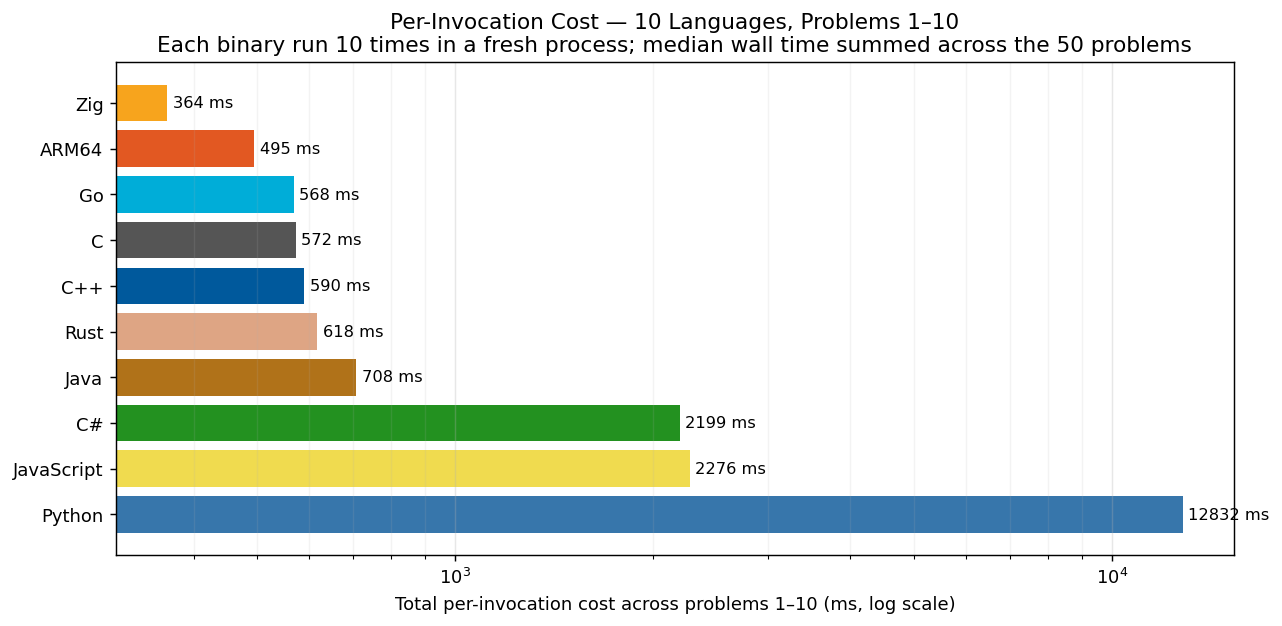
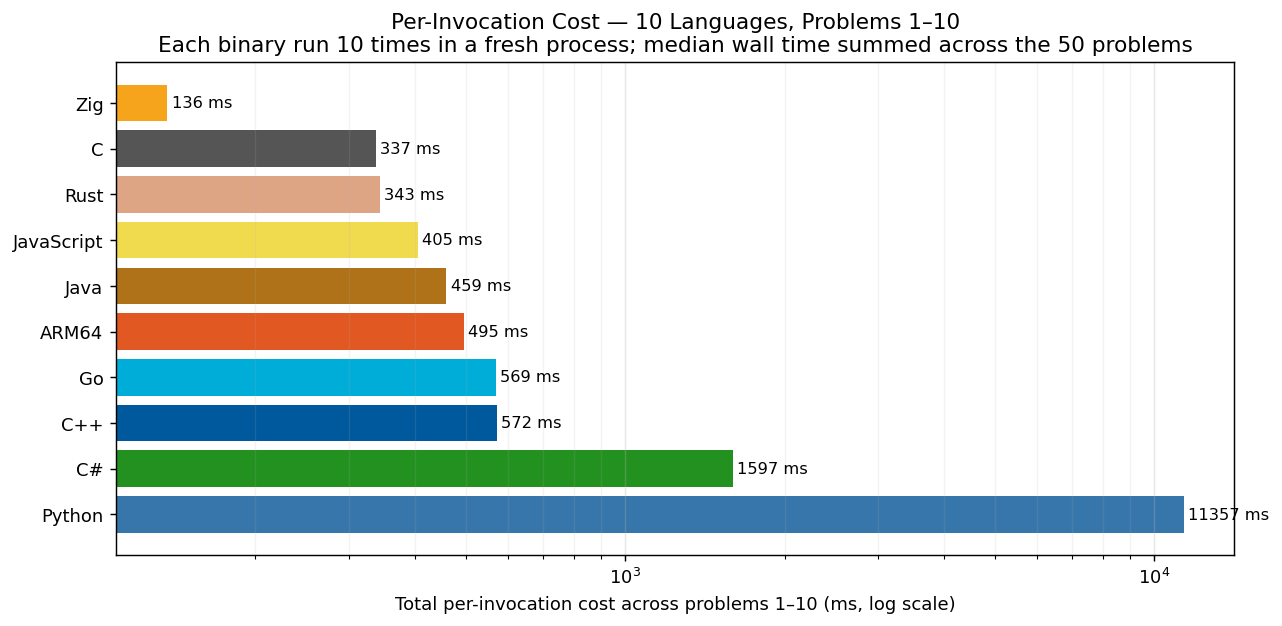
bench refresh post Big-4 cross-lang refactors: p012/p014/p029/p039 across 9 langs (PE 14 Collatz memo, PE 12 τ-via-coprime, PE 29 better data structure / factor-reduction, PE 39 Euclid parametric)

diff --git a/RESULTS.md b/RESULTS.md
@@ -17,16 +17,16 @@ the headline per-problem number, and we sum across the 50 problems for the total
 
 | Rank | Language | Total (50 problems) | Lines of code | vs Fastest |
 |------|----------|--------------------:|--------------:|-----------:|
-| 1 | **Zig** | 364.31 ms | 2,573 | 1.00× |
-| 2 | **ARM64** | 494.99 ms | 6,592 | 1.36× |
-| 3 | **Go** | 568.36 ms | 2,300 | 1.56× |
-| 4 | **C** | 572.02 ms | 2,510 | 1.57× |
-| 5 | **C++** | 589.86 ms | 2,034 | 1.62× |
-| 6 | **Rust** | 617.53 ms | 2,132 | 1.70× |
-| 7 | **Java** | 707.78 ms | 2,084 | 1.94× |
-| 8 | **C#** | 2.20 s | 2,251 | 6.04× |
-| 9 | **JavaScript** | 2.28 s | 1,629 | 6.25× |
-| 10 | **Python** | 12.83 s | 1,444 | 35.22× |
+| 1 | **Zig** | 136.13 ms | 2,580 | 1.00× |
+| 2 | **C** | 337.49 ms | 2,525 | 2.48× |
+| 3 | **Rust** | 343.40 ms | 2,159 | 2.52× |
+| 4 | **JavaScript** | 404.99 ms | 1,684 | 2.97× |
+| 5 | **Java** | 458.83 ms | 2,119 | 3.37× |
+| 6 | **ARM64** | 494.75 ms | 6,592 | 3.63× |
+| 7 | **Go** | 568.92 ms | 2,328 | 4.18× |
+| 8 | **C++** | 571.51 ms | 2,014 | 4.20× |
+| 9 | **C#** | 1.60 s | 2,295 | 11.73× |
+| 10 | **Python** | 11.36 s | 1,467 | 83.43× |
 
 ## Speed vs Code Size
 
@@ -60,16 +60,16 @@ are sorted by total (fastest language at top).
 
 | Language | p001 | p002 | p003 | p004 | p005 | p006 | p007 | p008 | p009 | p010 | p011 | p012 | p013 | p014 | p015 | p016 | p017 | p018 | p019 | p020 | p021 | p022 | p023 | p024 | p025 | p026 | p027 | p028 | p029 | p030 | p031 | p032 | p033 | p034 | p035 | p036 | p037 | p038 | p039 | p040 | p041 | p042 | p043 | p044 | p045 | p046 | p047 | p048 | p049 | p050 |
 |----------|----:|----:|----:|----:|----:|----:|----:|----:|----:|----:|----:|----:|----:|----:|----:|----:|----:|----:|----:|----:|----:|----:|----:|----:|----:|----:|----:|----:|----:|----:|----:|----:|----:|----:|----:|----:|----:|----:|----:|----:|----:|----:|----:|----:|----:|----:|----:|----:|----:|----:|
-| **Zig** | 42 ns | 42 ns | 708 ns | 3.8 µs | 417 ns | 42 ns | 219.1 µs | 1.6 µs | 250 ns | 2.77 ms | 2.4 µs | 36.96 ms | 42 ns | 133.78 ms | 42 ns | 477.2 µs | 2.2 µs | 42 ns | 4.7 µs | 31.9 µs | 1.52 ms | 1.03 ms | 8.56 ms | 292 ns | 6.85 ms | 652.8 µs | 6.08 ms | 41 ns | 68.32 ms | 1.50 ms | 1.0 µs | 1.16 ms | 2.0 µs | 9.92 ms | 2.32 ms | 4.94 ms | 1.95 ms | 215.1 µs | 104.6 µs | 291 ns | 8.55 ms | 227.1 µs | 11.18 ms | 36.45 ms | 44.6 µs | 3.98 ms | 8.36 ms | 104.0 µs | 2.58 ms | 3.45 ms |
-| **ARM64** | 0 ns | 0 ns | 1.0 µs | 3.0 µs | 1.0 µs | 0 ns | 306.0 µs | 4.0 µs | 1.0 µs | 5.45 ms | 3.0 µs | 63.87 ms | 2.0 µs | 179.55 ms | 0 ns | 476.0 µs | 3.0 µs | 1.0 µs | 7.0 µs | 16.0 µs | 2.39 ms | 1.33 ms | 11.22 ms | 0 ns | 7.45 ms | 1.04 ms | 8.46 ms | 1.0 µs | 55.46 ms | 1.81 ms | 2.0 µs | 1.48 ms | 15.0 µs | 11.43 ms | 3.64 ms | 5.66 ms | 3.27 ms | 207.0 µs | 2.36 ms | 1.33 ms | 8.49 ms | 27.0 µs | 15.84 ms | 84.68 ms | 77.0 µs | 4.84 ms | 7.82 ms | 132.0 µs | 1.22 ms | 3.61 ms |
-| **Go** | 1.5 µs | 1.4 µs | 2.1 µs | 4.8 µs | 1.8 µs | 1.8 µs | 477.5 µs | 5.7 µs | 1.8 µs | 4.72 ms | 3.1 µs | 38.66 ms | 68.1 µs | 165.81 ms | 1.5 µs | 585.0 µs | 5.5 µs | 2.2 µs | 6.7 µs | 20.0 µs | 1.58 ms | 728.2 µs | 10.14 ms | 1.9 µs | 122.9 µs | 1.57 ms | 6.02 ms | 1.9 µs | 7.71 ms | 2.15 ms | 6.0 µs | 17.42 ms | 11.1 µs | 13.63 ms | 4.20 ms | 42.22 ms | 2.64 ms | 1.04 ms | 118.7 µs | 4.29 ms | 11.13 ms | 291.2 µs | 20.58 ms | 166.18 ms | 52.3 µs | 4.08 ms | 5.98 ms | 416.7 µs | 28.41 ms | 5.28 ms |
-| **C** | 41 ns | 41 ns | 583 ns | 3.2 µs | 416 ns | 42 ns | 29.9 µs | 2.7 µs | 250 ns | 355.6 µs | 1.5 µs | 37.21 ms | 42 ns | 134.92 ms | 42 ns | 491.2 µs | 2.2 µs | 250 ns | 5.0 µs | 26.2 µs | 1.52 ms | 1.58 ms | 8.58 ms | 167 ns | 6.46 ms | 612.9 µs | 7.44 ms | 42 ns | 74.48 ms | 1.41 ms | 708 ns | 12.59 ms | 8.2 µs | 9.68 ms | 3.10 ms | 54.81 ms | 2.57 ms | 1.94 ms | 106.7 µs | 9.34 ms | 7.78 ms | 308.6 µs | 10.36 ms | 50.25 ms | 48.7 µs | 3.97 ms | 6.95 ms | 146.5 µs | 119.30 ms | 3.63 ms |
-| **C++** | 166 ns | 167 ns | 34.7 µs | 32.0 µs | 542 ns | 42 ns | 24.4 µs | 3.0 µs | 334 ns | 375.9 µs | 500 ns | 36.75 ms | 19.7 µs | 161.03 ms | 167 ns | 626.8 µs | 2.5 µs | 292 ns | 4.3 µs | 27.6 µs | 1.51 ms | 1.28 ms | 29.33 ms | 625 ns | 5.88 ms | 733.4 µs | 9.73 ms | 83 ns | 76.41 ms | 1.41 ms | 708 ns | 7.46 ms | 8.2 µs | 9.62 ms | 5.55 ms | 63.08 ms | 3.69 ms | 559.8 µs | 104.5 µs | 3.78 ms | 17.54 ms | 315.7 µs | 9.92 ms | 40.85 ms | 49.2 µs | 3.76 ms | 93.61 ms | 125.4 µs | 213.0 µs | 4.41 ms |
-| **Rust** | 42 ns | 83 ns | 94.8 µs | 17.8 µs | 583 ns | 42 ns | 245.7 µs | 10.6 µs | 291 ns | 1.08 ms | 42 ns | 38.03 ms | 39.4 µs | 185.77 ms | 42 ns | 57.9 µs | 2.0 µs | 250 ns | 4.8 µs | 23.4 µs | 1.82 ms | 711.1 µs | 92.96 ms | 708 ns | 7.09 ms | 5.66 ms | 7.85 ms | 875 ns | 63.20 ms | 2.37 ms | 2.2 µs | 13.35 ms | 7.7 µs | 9.10 ms | 28.86 ms | 79.01 ms | 2.73 ms | 1.70 ms | 88.4 µs | 7.56 ms | 7.61 ms | 119.6 µs | 10.76 ms | 15.65 ms | 48.2 µs | 5.56 ms | 7.00 ms | 169.5 µs | 18.53 ms | 2.66 ms |
-| **Java** | 2.5 µs | 2.8 µs | 8.0 µs | 307.3 µs | 5.5 µs | 1.9 µs | 1.62 ms | 55.0 µs | 6.0 µs | 8.17 ms | 65.7 µs | 45.18 ms | 1.99 ms | 214.97 ms | 2.1 µs | 962.7 µs | 76.8 µs | 21.2 µs | 181.6 µs | 879.7 µs | 2.15 ms | 14.19 ms | 14.66 ms | 4.7 µs | 84.61 ms | 1.91 ms | 14.54 ms | 14.1 µs | 6.64 ms | 4.19 ms | 18.6 µs | 26.50 ms | 116.0 µs | 25.63 ms | 11.10 ms | 38.47 ms | 9.93 ms | 3.82 ms | 2.68 ms | 5.75 ms | 18.79 ms | 8.88 ms | 27.42 ms | 40.33 ms | 1.30 ms | 6.82 ms | 12.43 ms | 15.88 ms | 21.23 ms | 13.25 ms |
-| **C#** | 54.8 µs | 64.0 µs | 80.6 µs | 136.5 µs | 1.70 ms | 27.1 µs | 696.7 µs | 179.2 µs | 521.2 µs | 9.73 ms | 662.8 µs | 110.22 ms | 466.1 µs | 552.02 ms | 58.2 µs | 2.48 ms | 12.38 ms | 3.84 ms | 299.4 µs | 2.76 ms | 168.50 ms | 23.76 ms | 8.49 ms | 416.85 ms | 4.58 ms | 1.91 ms | 118.17 ms | 3.29 ms | 23.68 ms | 3.19 ms | 223.2 µs | 9.54 ms | 248.2 µs | 19.98 ms | 176.76 ms | 13.36 ms | 7.29 ms | 21.05 ms | 708.8 µs | 6.24 ms | 24.75 ms | 16.80 ms | 255.46 ms | 129.27 ms | 407.0 µs | 7.93 ms | 10.89 ms | 671.1 µs | 18.55 ms | 7.94 ms |
-| **JavaScript** | 19.0 µs | 12.1 µs | 49.2 µs | 96.8 µs | 29.0 µs | 7.1 µs | 2.69 ms | 99.4 µs | 27.0 µs | 10.11 ms | 148.0 µs | 71.66 ms | 42.8 µs | 1.82 s | 12.2 µs | 42.6 µs | 172.9 µs | 41.0 µs | 127.3 µs | 41.6 µs | 2.49 ms | 1.53 ms | 16.19 ms | 37.3 µs | 486.8 µs | 1.26 ms | 13.49 ms | 24.8 µs | 5.25 ms | 6.00 ms | 67.3 µs | 9.54 ms | 236.8 µs | 34.33 ms | 8.88 ms | 65.25 ms | 7.28 ms | 1.54 ms | 1.45 ms | 10.21 ms | 14.54 ms | 938.0 µs | 35.42 ms | 56.05 ms | 707.2 µs | 9.81 ms | 11.36 ms | 1.16 ms | 47.98 ms | 10.45 ms |
-| **Python** | 1.6 µs | 3.0 µs | 5.59 ms | 55.36 ms | 4.5 µs | 916 ns | 1.38 ms | 852.1 µs | 4.64 ms | 5.27 ms | 223.6 µs | 1.53 s | 4.3 µs | 6.11 s | 2.0 µs | 25.8 µs | 168.9 µs | 17.6 µs | 142.3 µs | 16.0 µs | 25.56 ms | 3.72 ms | 578.16 ms | 10.2 µs | 22.43 ms | 7.59 ms | 406.94 ms | 34.9 µs | 2.64 ms | 215.86 ms | 49.7 µs | 42.23 ms | 351.5 µs | 1.77 s | 100.18 ms | 146.76 ms | 75.41 ms | 4.04 ms | 8.87 ms | 17.55 ms | 61.0 µs | 1.12 ms | 921.46 ms | 161.44 ms | 3.60 ms | 20.36 ms | 395.76 ms | 642.8 µs | 77.64 ms | 109.16 ms |
+| **Zig** | 42 ns | 42 ns | 708 ns | 3.8 µs | 417 ns | 42 ns | 219.1 µs | 1.6 µs | 250 ns | 2.77 ms | 2.4 µs | 1.40 ms | 42 ns | 8.94 ms | 42 ns | 477.2 µs | 2.2 µs | 42 ns | 4.7 µs | 31.9 µs | 1.52 ms | 1.03 ms | 8.56 ms | 292 ns | 6.85 ms | 652.8 µs | 6.08 ms | 41 ns | 542.9 µs | 1.50 ms | 1.0 µs | 1.16 ms | 2.0 µs | 9.92 ms | 2.32 ms | 4.94 ms | 1.95 ms | 215.1 µs | 104.0 µs | 291 ns | 8.55 ms | 227.1 µs | 11.18 ms | 36.45 ms | 44.6 µs | 3.98 ms | 8.36 ms | 104.0 µs | 2.58 ms | 3.45 ms |
+| **C** | 41 ns | 41 ns | 583 ns | 3.2 µs | 416 ns | 42 ns | 29.9 µs | 2.7 µs | 250 ns | 355.6 µs | 1.5 µs | 1.45 ms | 42 ns | 10.72 ms | 42 ns | 491.2 µs | 2.2 µs | 250 ns | 5.0 µs | 26.2 µs | 1.52 ms | 1.58 ms | 8.58 ms | 167 ns | 6.46 ms | 612.9 µs | 7.44 ms | 42 ns | 12.4 µs | 1.41 ms | 708 ns | 12.59 ms | 8.2 µs | 9.68 ms | 3.10 ms | 54.81 ms | 2.57 ms | 1.94 ms | 3.4 µs | 9.34 ms | 7.78 ms | 308.6 µs | 10.36 ms | 50.25 ms | 48.7 µs | 3.97 ms | 6.95 ms | 146.5 µs | 119.30 ms | 3.63 ms |
+| **Rust** | 42 ns | 83 ns | 94.8 µs | 17.8 µs | 583 ns | 42 ns | 245.7 µs | 10.6 µs | 291 ns | 1.08 ms | 42 ns | 1.35 ms | 39.4 µs | 7.23 ms | 42 ns | 57.9 µs | 2.0 µs | 250 ns | 4.8 µs | 23.4 µs | 1.82 ms | 711.1 µs | 92.96 ms | 708 ns | 7.09 ms | 5.66 ms | 7.85 ms | 875 ns | 4.38 ms | 2.37 ms | 2.2 µs | 13.35 ms | 7.7 µs | 9.10 ms | 28.86 ms | 79.01 ms | 2.73 ms | 1.70 ms | 3.5 µs | 7.56 ms | 7.61 ms | 119.6 µs | 10.76 ms | 15.65 ms | 48.2 µs | 5.56 ms | 7.00 ms | 169.5 µs | 18.53 ms | 2.66 ms |
+| **JavaScript** | 19.0 µs | 12.1 µs | 49.2 µs | 96.8 µs | 29.0 µs | 7.1 µs | 2.69 ms | 99.4 µs | 27.0 µs | 10.11 ms | 148.0 µs | 1.65 ms | 42.8 µs | 20.94 ms | 12.2 µs | 42.6 µs | 172.9 µs | 41.0 µs | 127.3 µs | 41.6 µs | 2.49 ms | 1.53 ms | 16.19 ms | 37.3 µs | 486.8 µs | 1.26 ms | 13.49 ms | 24.8 µs | 1.27 ms | 6.00 ms | 67.3 µs | 9.54 ms | 236.8 µs | 34.33 ms | 8.88 ms | 65.25 ms | 7.28 ms | 1.54 ms | 93.0 µs | 10.21 ms | 14.54 ms | 938.0 µs | 35.42 ms | 56.05 ms | 707.2 µs | 9.81 ms | 11.36 ms | 1.16 ms | 47.98 ms | 10.45 ms |
+| **Java** | 2.5 µs | 2.8 µs | 8.0 µs | 307.3 µs | 5.5 µs | 1.9 µs | 1.62 ms | 55.0 µs | 6.0 µs | 8.17 ms | 65.7 µs | 2.09 ms | 1.99 ms | 13.65 ms | 2.1 µs | 962.7 µs | 76.8 µs | 21.2 µs | 181.6 µs | 879.7 µs | 2.15 ms | 14.19 ms | 14.66 ms | 4.7 µs | 84.61 ms | 1.91 ms | 14.54 ms | 14.1 µs | 4.75 ms | 4.19 ms | 18.6 µs | 26.50 ms | 116.0 µs | 25.63 ms | 11.10 ms | 38.47 ms | 9.93 ms | 3.82 ms | 26.6 µs | 5.75 ms | 18.79 ms | 8.88 ms | 27.42 ms | 40.33 ms | 1.30 ms | 6.82 ms | 12.43 ms | 15.88 ms | 21.23 ms | 13.25 ms |
+| **ARM64** | 0 ns | 0 ns | 1.0 µs | 3.0 µs | 1.0 µs | 0 ns | 306.0 µs | 4.0 µs | 1.0 µs | 5.45 ms | 3.0 µs | 63.71 ms | 2.0 µs | 179.38 ms | 0 ns | 476.0 µs | 3.0 µs | 1.0 µs | 7.0 µs | 16.0 µs | 2.39 ms | 1.33 ms | 11.22 ms | 0 ns | 7.45 ms | 1.04 ms | 8.46 ms | 1.0 µs | 55.31 ms | 1.81 ms | 2.0 µs | 1.48 ms | 15.0 µs | 11.43 ms | 3.64 ms | 5.66 ms | 3.27 ms | 207.0 µs | 2.60 ms | 1.33 ms | 8.49 ms | 27.0 µs | 15.84 ms | 84.68 ms | 77.0 µs | 4.84 ms | 7.82 ms | 132.0 µs | 1.22 ms | 3.61 ms |
+| **Go** | 1.5 µs | 1.4 µs | 2.1 µs | 4.8 µs | 1.8 µs | 1.8 µs | 477.5 µs | 5.7 µs | 1.8 µs | 4.72 ms | 3.1 µs | 677.0 µs | 68.1 µs | 205.86 ms | 1.5 µs | 585.0 µs | 5.5 µs | 2.2 µs | 6.7 µs | 20.0 µs | 1.58 ms | 728.2 µs | 10.14 ms | 1.9 µs | 122.9 µs | 1.57 ms | 6.02 ms | 1.9 µs | 6.30 ms | 2.15 ms | 6.0 µs | 17.42 ms | 11.1 µs | 13.63 ms | 4.20 ms | 42.22 ms | 2.64 ms | 1.04 ms | 9.7 µs | 4.29 ms | 11.13 ms | 291.2 µs | 20.58 ms | 166.18 ms | 52.3 µs | 4.08 ms | 5.98 ms | 416.7 µs | 28.41 ms | 5.28 ms |
+| **C++** | 166 ns | 167 ns | 34.7 µs | 32.0 µs | 542 ns | 42 ns | 24.4 µs | 3.0 µs | 334 ns | 375.9 µs | 500 ns | 1.47 ms | 19.7 µs | 252.19 ms | 167 ns | 626.8 µs | 2.5 µs | 292 ns | 4.3 µs | 27.6 µs | 1.51 ms | 1.28 ms | 29.33 ms | 625 ns | 5.88 ms | 733.4 µs | 9.73 ms | 83 ns | 2.28 ms | 1.41 ms | 708 ns | 7.46 ms | 8.2 µs | 9.62 ms | 5.55 ms | 63.08 ms | 3.69 ms | 559.8 µs | 2.8 µs | 3.78 ms | 17.54 ms | 315.7 µs | 9.92 ms | 40.85 ms | 49.2 µs | 3.76 ms | 93.61 ms | 125.4 µs | 213.0 µs | 4.41 ms |
+| **C#** | 54.8 µs | 64.0 µs | 80.6 µs | 136.5 µs | 1.70 ms | 27.1 µs | 696.7 µs | 179.2 µs | 521.2 µs | 9.73 ms | 662.8 µs | 3.38 ms | 466.1 µs | 58.52 ms | 58.2 µs | 2.48 ms | 12.38 ms | 3.84 ms | 299.4 µs | 2.76 ms | 168.50 ms | 23.76 ms | 8.49 ms | 416.85 ms | 4.58 ms | 1.91 ms | 118.17 ms | 3.29 ms | 22.00 ms | 3.19 ms | 223.2 µs | 9.54 ms | 248.2 µs | 19.98 ms | 176.76 ms | 13.36 ms | 7.29 ms | 21.05 ms | 683.2 µs | 6.24 ms | 24.75 ms | 16.80 ms | 255.46 ms | 129.27 ms | 407.0 µs | 7.93 ms | 10.89 ms | 671.1 µs | 18.55 ms | 7.94 ms |
+| **Python** | 1.6 µs | 3.0 µs | 5.59 ms | 55.36 ms | 4.5 µs | 916 ns | 1.38 ms | 852.1 µs | 4.64 ms | 5.27 ms | 223.6 µs | 21.13 ms | 4.3 µs | 6.15 s | 2.0 µs | 25.8 µs | 168.9 µs | 17.6 µs | 142.3 µs | 16.0 µs | 25.56 ms | 3.72 ms | 578.16 ms | 10.2 µs | 22.43 ms | 7.59 ms | 406.94 ms | 34.9 µs | 2.66 ms | 215.86 ms | 49.7 µs | 42.23 ms | 351.5 µs | 1.77 s | 100.18 ms | 146.76 ms | 75.41 ms | 4.04 ms | 82.9 µs | 17.55 ms | 61.0 µs | 1.12 ms | 921.46 ms | 161.44 ms | 3.60 ms | 20.36 ms | 395.76 ms | 642.8 µs | 77.64 ms | 109.16 ms |
 
 ## Method
 
